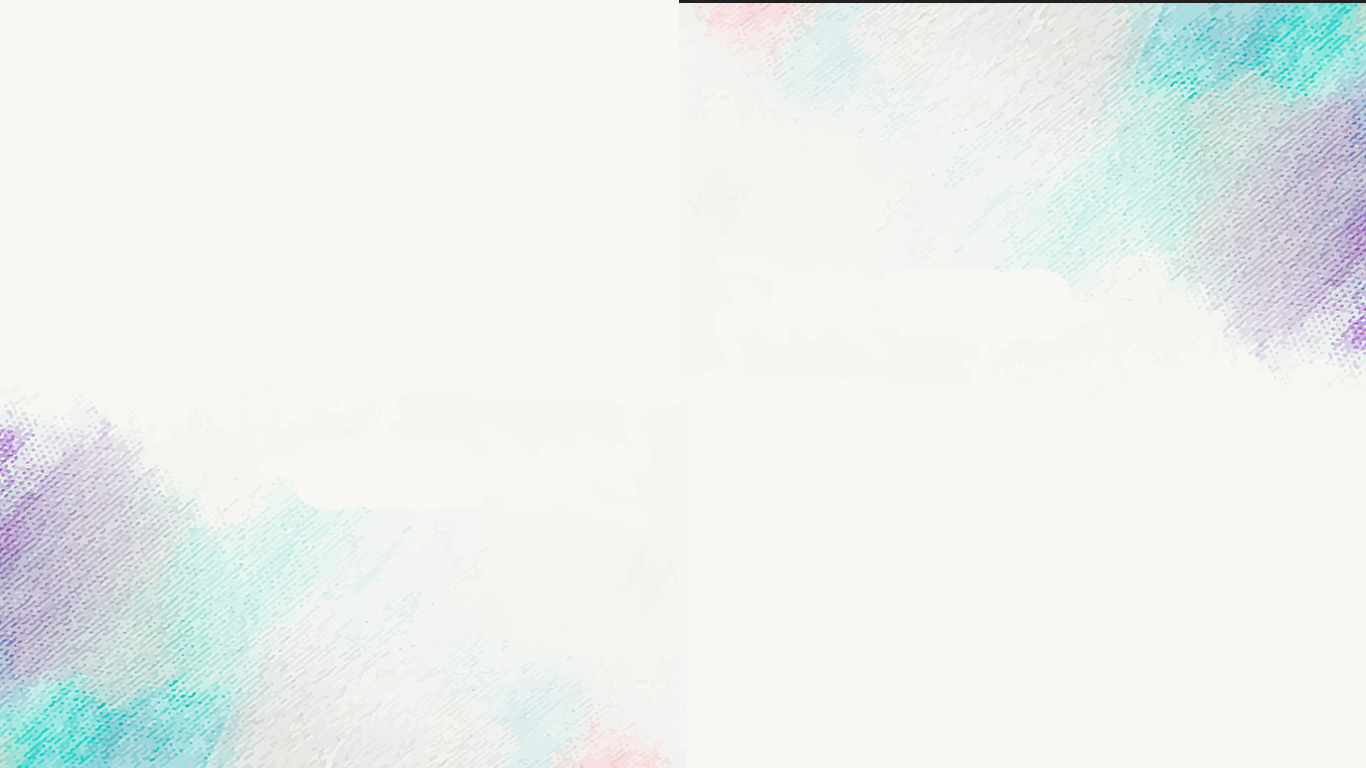
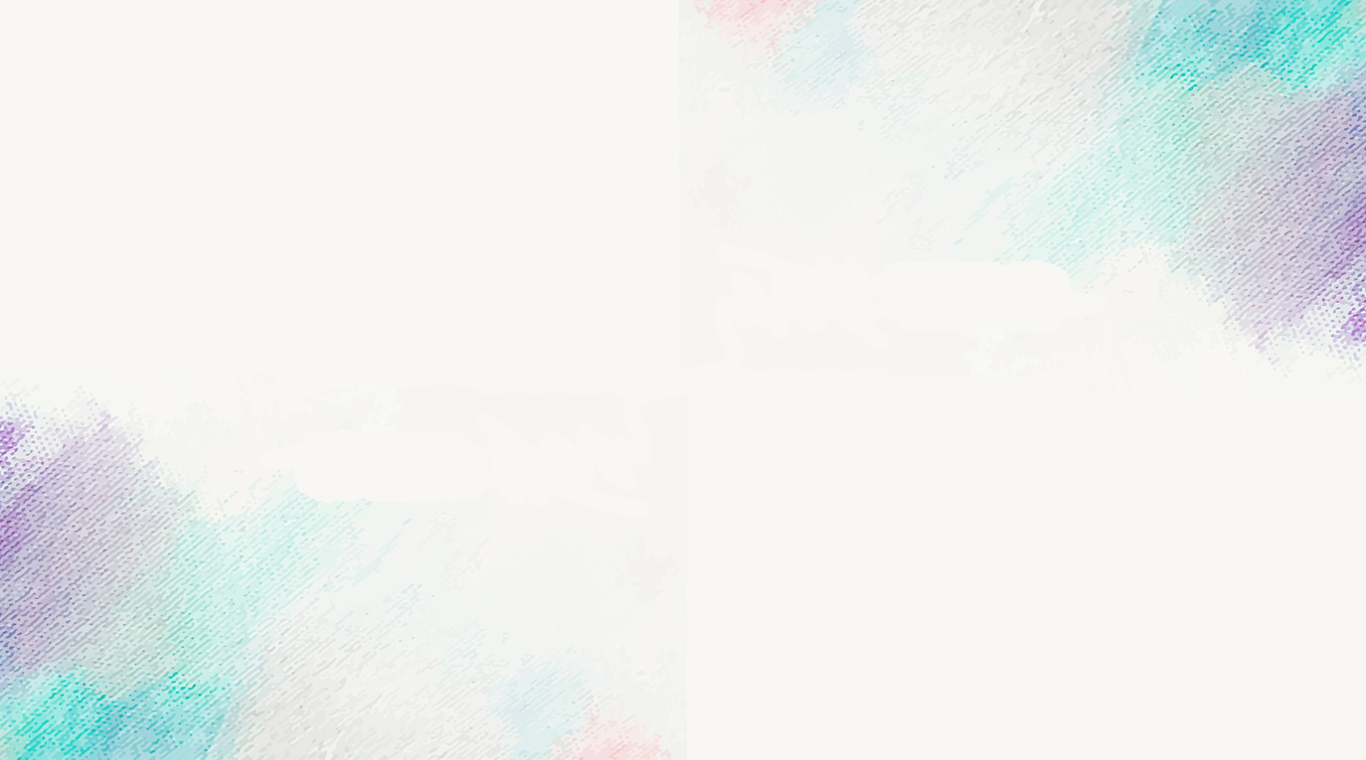
Update Home page sectioning

Changed region(s): [[0.4919, 0.0, 1.0, 0.4842], [0.0, 0.5447, 0.2152, 0.9382], [0.7994, 0.2421, 0.8302, 0.2724]]

diff --git a/index.html b/index.html
@@ -36,10 +36,23 @@
 <main>
 
     <!--Home page sectioning -->
-    <section> <!--Image sectioning --></section>
-    <article> <!--Paragraph sectioning -->  </article>
+    <section> <!--Image sectioning -->
+        <img alt="" src="assests/background.png">
+        <img alt="" src="assests/mainPhoto.png" style="width: 683px">
+    </section>
+
+    <article> <!--Paragraph sectioning -->
+        <h1>Hello,</h1>
+        <h1>I am Nimesh Piyumantha.</h1>
+        <h1>Full Stack Software Developer.</h1>
+    </article>
+
     <section> <!--Button sectioning --></section>
-    <section> <!--Head sectioning --></section>
+
+    <section> <!--Head sectioning -->
+        <h2>Follow Me :</h2>
+    </section>
+
     <nav> <!--SocialMedia link sectioning --> </nav>
 
     <!--About page sectioning -->
